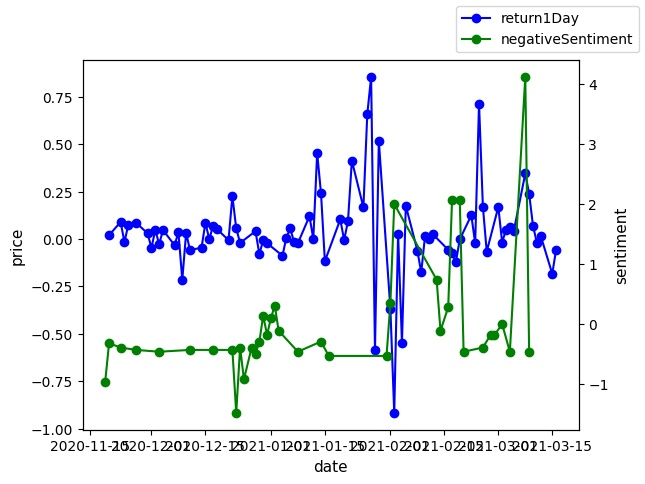
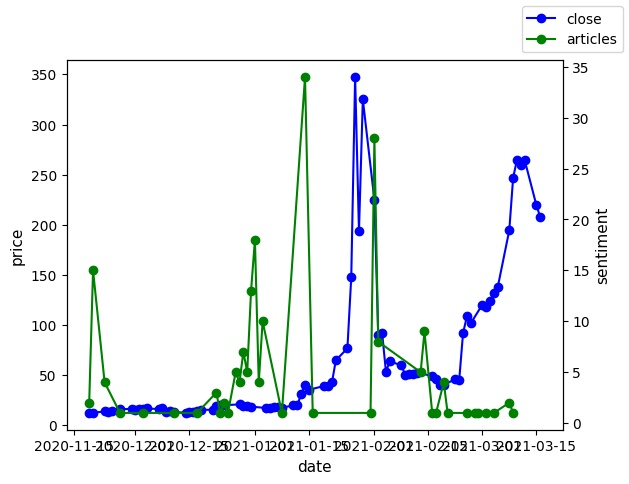
return vs articles

Changed region(s): [[0.0, 0.124, 0.9968, 0.9917], [0.6948, 0.0, 0.9968, 0.124]]

diff --git a/IntelligentAnalysis.py b/IntelligentAnalysis.py
@@ -1,6 +1,6 @@
 from priceGatherer import getPrices
 from sentimentExtractor import getArticleSentimentByDate
-from dataGraphing import displayGraphs
+from dataGraphing import displayPriceVsSentiment
 from dataTabling import getExcel
 from dataCleanUp import getOverlappingSeries
 from returnEstimator import singlePointEstimator, getNextDayReturn
@@ -13,7 +13,8 @@ if __name__ == "__main__": # determine all vars such as source here
     prices, sentiment = getOverlappingSeries(prices, sentiment)
 
     # getExcel(prices, 'prices')
-    # displayGraphs(prices, sentiment, ['return1Day'], ['negativeSentiment'])
+    # displayPriceVsSentiment(prices, sentiment, ['return1Day'], ['negativeSentiment'])
+    displayPriceVsSentiment(prices, sentiment, ['return1Day'], ['articles'])
     # sModel, sAccuracy = singlePointEstimator(prices, sentiment, ['return1Day', 'return7Day', 'return14Day', 'return21Day'], ['negativeSentiment', 'positiveSentiment'])
     # print(sAccuracy)
     # print(getNextDayReturn(prices, sentiment))

diff --git a/dataGraphing.py b/dataGraphing.py
@@ -2,6 +2,9 @@ import matplotlib.pyplot as plt
 import pandas as pd
 from dataCleanUp import removeNoReturn
 
+colours = ["b", "g", "r", "c", "m", "y", "k", "w"]
+fontSize = 11
+
 def getDataFrames(data, names):
     dates = []
     for d in data:
@@ -21,14 +24,12 @@ def getDataFrames(data, names):
 
     return frames
 
-def displayGraphs(prices, sentiment, pricesColumns, sentimentColumns):
+def displayPriceVsSentiment(prices, sentiment, pricesColumns, sentimentColumns):
     prices = removeNoReturn(prices, pricesColumns)
     pricesFrames = getDataFrames(prices, pricesColumns)
     sentimentFrames = getDataFrames(sentiment, sentimentColumns)
 
-    colours = ["b", "g", "r", "c", "m", "y", "k", "w"]
     colourN = 0
-    fontSize = 11
 
     fig, ax = plt.subplots()
     for f in pricesFrames:

diff --git a/README.md b/README.md
@@ -1,3 +1,11 @@
 # An intelligent sentiment proxy analysis system for estimating price changes in financial markets
 
-TODO - required python packages
+## TODO list
+
+- [ ] Descriptive Statistics
+- [ ] More models for single point estimator
+- [ ] RTF to TXT for lexis nexis
+- [ ] results comparisons
+- [ ] predict next day return instead of T/F
+- [ ] Layout python packages - make it easy to install
+- [ ] Vector Autoregression
